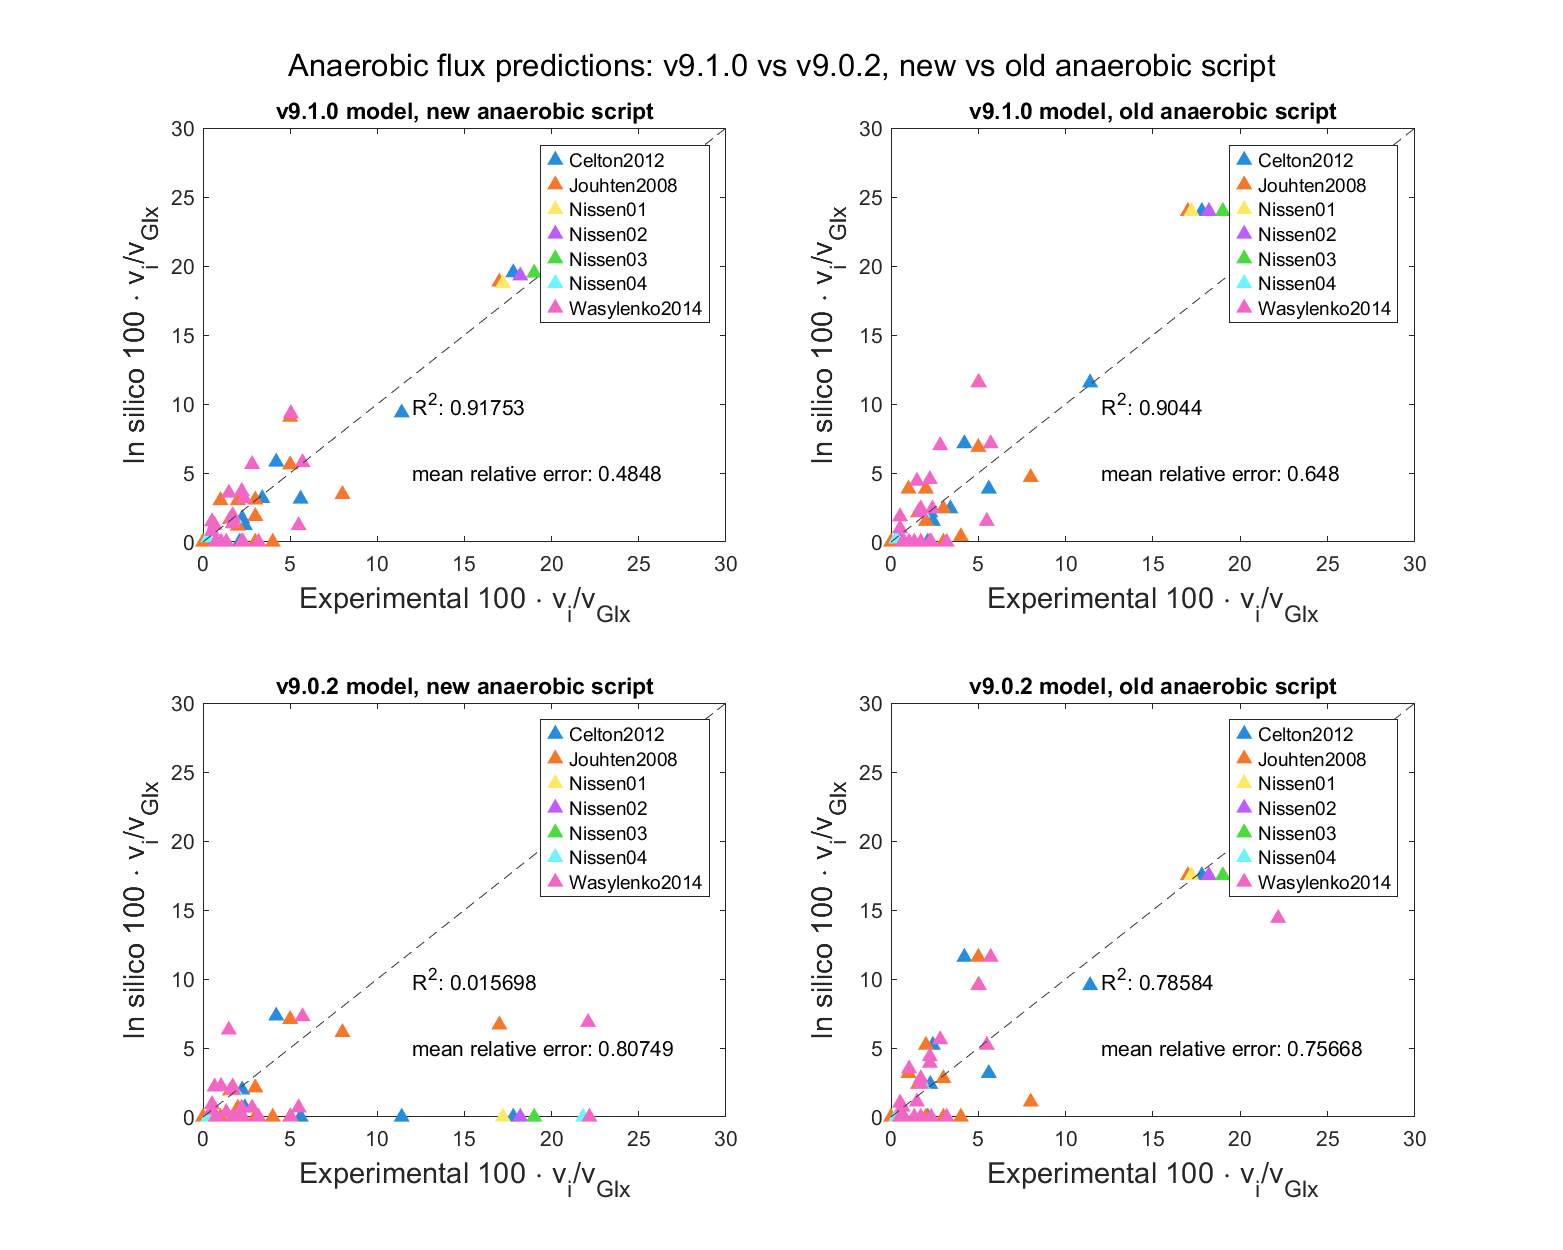
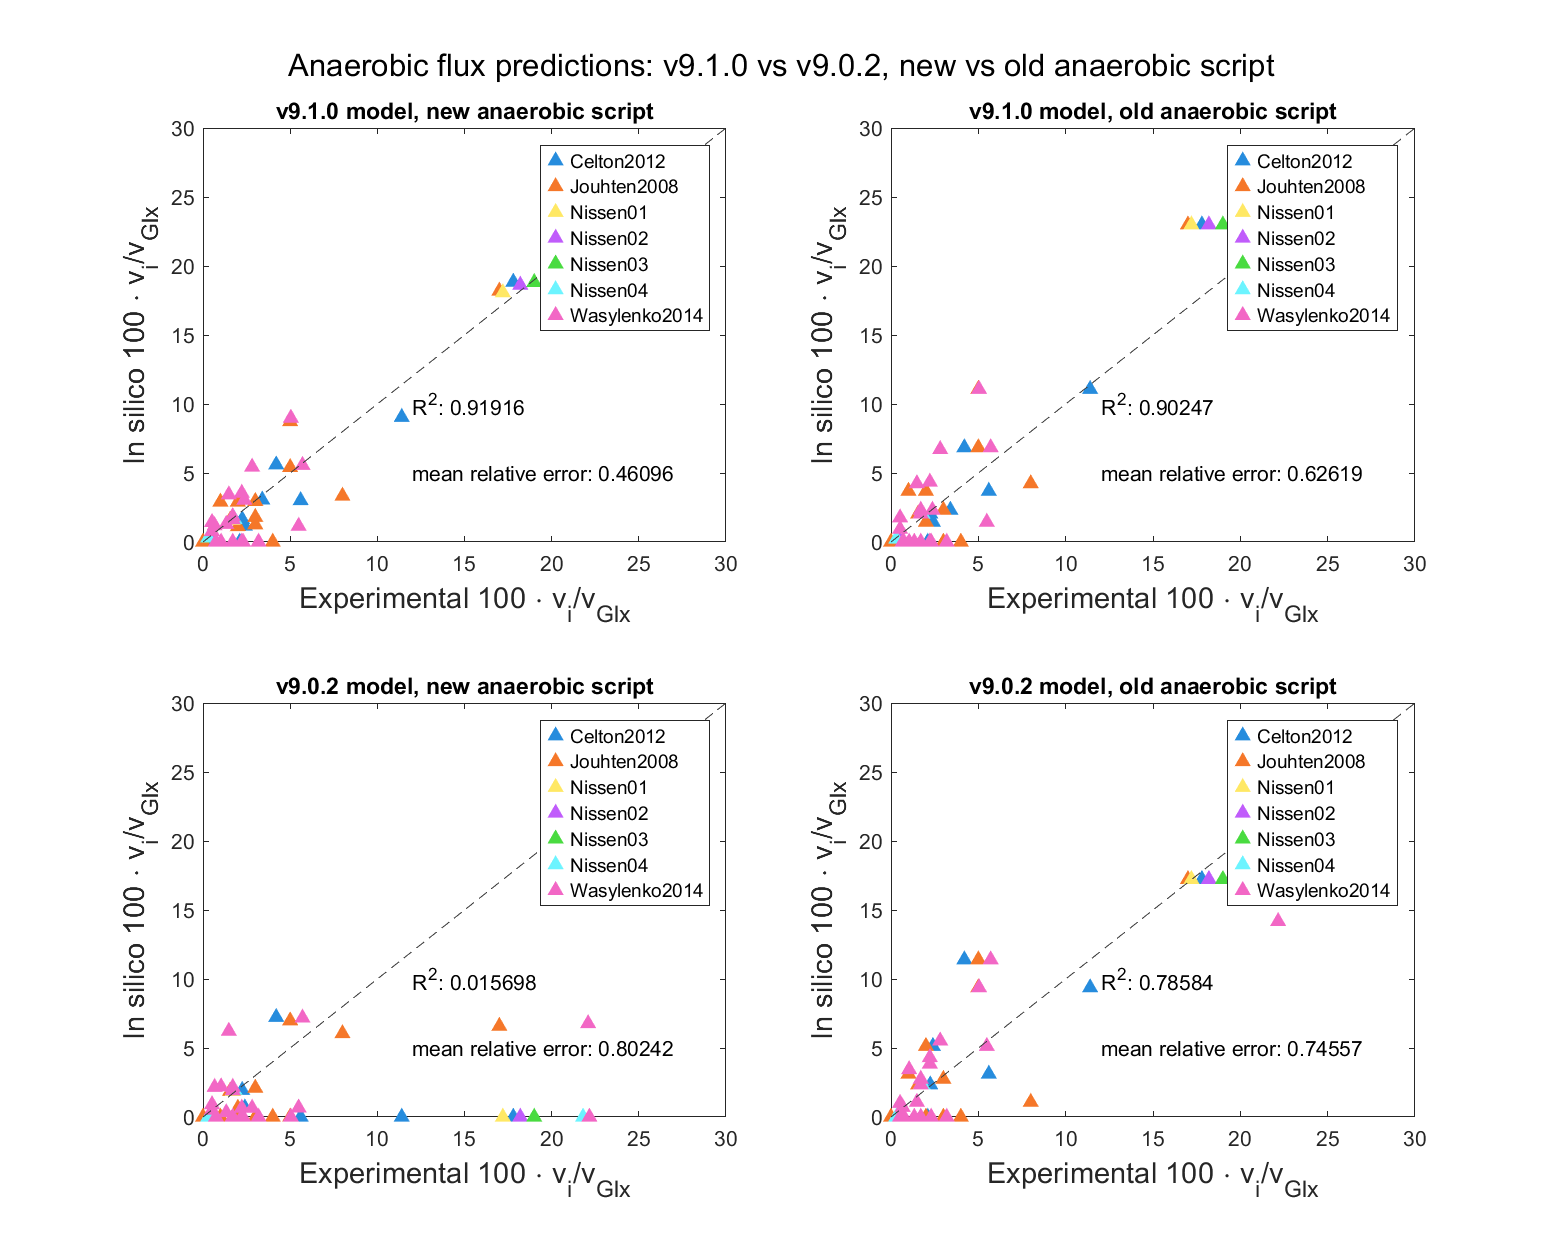
feat: correct H+ in protein biomass pseudorxn

diff --git a/code/modelCuration/v9_1_0.m b/code/modelCuration/v9_1_0.m
@@ -344,6 +344,30 @@ model = changeAminoAcidRatio(model,1);
 fprintf('Current biomass adds up to %.4f g/g. Protein fraction is scaled from %.4f to %.4f g/g to reach 1 g/g total biomass.\n', X, P, (1-X)+P)
 model = scaleBioMass(model,'protein',(1-X)+P);
 
+%% Correct H+ balance in biomass component pseudoreactions
+% Set the charge of all biomass components to 0
+model.metCharges(strcmp(model.mets,'s_3717'))=0; % Protein
+model.metCharges(strcmp(model.mets,'s_3718'))=0; % Carbohydrate
+model.metCharges(strcmp(model.mets,'s_3719'))=0; % RNA
+model.metCharges(strcmp(model.mets,'s_3720'))=0; % DNA
+model.metCharges(strcmp(model.mets,'s_3746'))=0; % Lipid backbone
+model.metCharges(strcmp(model.mets,'s_3747'))=0; % Lipid chain
+model.metCharges(strcmp(model.mets,'s_4205'))=0; % Cofactor
+model.metCharges(strcmp(model.mets,'s_4206'))=0; % Ion
+
+% Balance the charge of all biomass component pseudo reactions by adding the required amount of H+
+Hc = find(strcmp(model.mets,'s_0794')); % H+[c]
+model.S(Hc,strcmp(model.rxns,'r_4047')) = 0;
+model.S(Hc,strcmp(model.rxns,'r_4047')) = -sum(model.S(:,strcmp(model.rxns,'r_4047')).*model.metCharges,'omitnan'); % Protein
+model.S(Hc,strcmp(model.rxns,'r_4049')) = 0;
+model.S(Hc,strcmp(model.rxns,'r_4049')) = -sum(model.S(:,strcmp(model.rxns,'r_4049')).*model.metCharges,'omitnan'); % RNA
+model.S(Hc,strcmp(model.rxns,'r_4050')) = 0;
+model.S(Hc,strcmp(model.rxns,'r_4050')) = -sum(model.S(:,strcmp(model.rxns,'r_4050')).*model.metCharges,'omitnan'); % DNA
+model.S(Hc,strcmp(model.rxns,'r_4598')) = 0;
+model.S(Hc,strcmp(model.rxns,'r_4598')) = -sum(model.S(:,strcmp(model.rxns,'r_4598')).*model.metCharges,'omitnan'); % Cofactor
+model.S(Hc,strcmp(model.rxns,'r_4599')) = 0;
+model.S(Hc,strcmp(model.rxns,'r_4599')) = -sum(model.S(:,strcmp(model.rxns,'r_4599')).*model.metCharges,'omitnan'); % Ion
+
 %% Degree of reduction of biomass
 % To align the degree of reduction of S. cerevisiae biomass to the
 % published value of 4.2 /Cmol (Lange and Heijnen, 2001, 10.1002/bit.10054)

diff --git a/code/otherChanges/rescalePseudoReaction.m b/code/otherChanges/rescalePseudoReaction.m
@@ -1,15 +1,15 @@
 function model = rescalePseudoReaction(model,metName,f)
-  % rescalePseudoReaction
-  %   Rescales a specific pseudoreaction by a given factor
-  %
-  %   model      (struct) the yeast GEM
-  %   metName    (str) name of the component to rescale (e.g. "protein")
-  %   f          (float) fraction to use for rescaling
-  %
-  %   model    (struct) the (rescaled) yeast GEM
-  %
-  %   Usage: model = rescalePseudoReaction(model,metName,f)
-  %
+% rescalePseudoReaction
+%   Rescales a specific pseudoreaction by a given factor
+%
+%   model      (struct) the yeast GEM
+%   metName    (str) name of the component to rescale (e.g. "protein")
+%   f          (float) fraction to use for rescaling
+%
+%   model    (struct) the (rescaled) yeast GEM
+%
+%   Usage: model = rescalePseudoReaction(model,metName,f)
+%
 
 if strcmp(metName,'lipid')
     model = rescalePseudoReaction(model,'lipid backbone',f);
@@ -24,6 +24,9 @@ else
             model.S(i,rxnPos) = f*S_ir;
         end
     end
+    % Correct H+
+    Hc = find(strcmp(model.mets,'s_0794'));
+    model.S(Hc,rxnPos) = 0;
+    model.S(Hc,rxnPos) = -sum(model.S(:,rxnPos).*model.metCharges,'omitnan');
 end
-
 end

diff --git a/code/otherChanges/changeAminoAcidRatio.m b/code/otherChanges/changeAminoAcidRatio.m
@@ -1,7 +1,25 @@
-function model = changeAminoAcidRatio(model,col)
+function model = changeAminoAcidRatio(model,aerobic)
+% changeAminoAcidRatio
+%   Updates the amino acid ratio in the biomass equation, based on data by
+%   Björkeroth et al. (2020, PNAS, doi:10.1073/pnas.1921890117). 
+%
+% Input:
+%   model   (struct)  the yeast GEM
+%   aerobic (logical) true if ratios should be set for aerobic condition,
+%                     false for anaerobic conditions. Default is true.
+%
+% Output:
+%   model   (struct)  the updated yeast GEM
+%
+% Usage: model = changeAminoAcidRatio(model,aerobic)
+%
 
-if nargin < 2 || isempty(col)
+if nargin < 2 || isempty(aerobic)
     col = 1;
+elseif aerobic % First column is aerobic, second column anaerobic
+    col = 1;
+else
+    col = 2;
 end
 
 funcDir = dbstack('-completenames');
@@ -18,10 +36,8 @@ aaRatio = aaRatio(:,col);
 aaRatio = [-aaRatio; aaRatio];
 
 [~, P] = sumBioMass(model,false);
-
 protRxn  = getIndexes(model,'r_4047','rxns');
 [~, tRNAidxs] = ismember(tRNAids,model.mets);
 model.S(tRNAidxs,protRxn) = aaRatio;
-
 model = scaleBioMass(model,'protein',P,[],false);
 end

diff --git a/code/saveYeastModel.m b/code/saveYeastModel.m
@@ -128,7 +128,7 @@ end
 
 %%
 function checkGrowth(model,condition,allowNoGrowth)
-%Function that checks if the model can grow or not using COBRA under a
+%Function that checks if the model can grow or not using RAVEN under a
 %given condition (aerobic or anaerobic). Will either return warnings or
 %errors depending on allowNoGrowth.
 
@@ -145,9 +145,9 @@ try
             condition ' conditions. Please ensure the model can grow'];
     end
 catch
-    dispText = ['The model yields an infeasible simulation using COBRA ' ...
+    dispText = ['The model yields an infeasible simulation using RAVEN ' ...
         'under ' condition ' conditions. Please ensure the model ' ...
-        'can be simulated with COBRA'];
+        'can be simulated with RAVEN'];
 end
 
 if exist('dispText','var')

diff --git a/code/modelTests/anaerobiosis.m b/code/modelTests/anaerobiosis.m
@@ -71,7 +71,11 @@ res=solveLP(temp_model,1); FLUX = res.x;
 v_AStr = res.x(getIndexes(temp_model,'r_1115','rxns')); % Ammonium exchange
 v_ATPase = res.x(getIndexes(temp_model,'r_0227','rxns')); % ATPase
 v_glc = res.x(getIndexes(temp_model,'r_1714','rxns')); % Glucose uptake
-[v_AStr, v_ATPase, v_glc]
+[v_AStr, v_ATPase, v_glc];
+
+fprintf("Ratio of ammonium sulfate exchange / ATPase: %.02f\n", v_AStr / v_ATPase)
+
+% Ratio of ammonium sulfate / ATPase is 1.072, close to the measured 1.
 
 %% Pack flux results into table
 rxns_reacs=constructEquations(temp_model,temp_model.rxns);

diff --git a/code/otherChanges/anaerobicModel.m b/code/otherChanges/anaerobicModel.m
@@ -21,8 +21,12 @@ function model = anaerobicModel(model)
 hemeIdx = getIndexes(model,'s_3714','mets');
 cofacIdx = getIndexes(model,'r_4598','rxns');
 model.S(hemeIdx,cofacIdx) = 0;
+% Correct H+
+Hc = find(strcmp(model.mets,'s_0794'));
+model.S(Hc,cofacIdx) = 0;
+model.S(Hc,cofacIdx) = -sum(model.S(:,cofacIdx).*model.metCharges,'omitnan');
 
-model = changeAminoAcidRatio(model,2);
+model = changeAminoAcidRatio(model,false);
 
 % Change exchange reactions (block O2 uptake and allow sterol and fatty
 % acid exchanges, as these are essential supplements for anaerobic growth).

diff --git a/README.md b/README.md
@@ -39,7 +39,7 @@ This repository contains the current consensus genome-scale metabolic model of _
 
 | Taxonomy | Latest update | Version | Reactions | Metabolites | Genes |
 |:-------|:--------------|:------|:------|:----------|:-----|
-| _Saccharomyces cerevisiae_ | 26-May-2026 | develop | 4102 | 2748 | 1143 |
+| _Saccharomyces cerevisiae_ | 27-May-2026 | develop | 4102 | 2748 | 1143 |
 
 # Installation & usage
 
